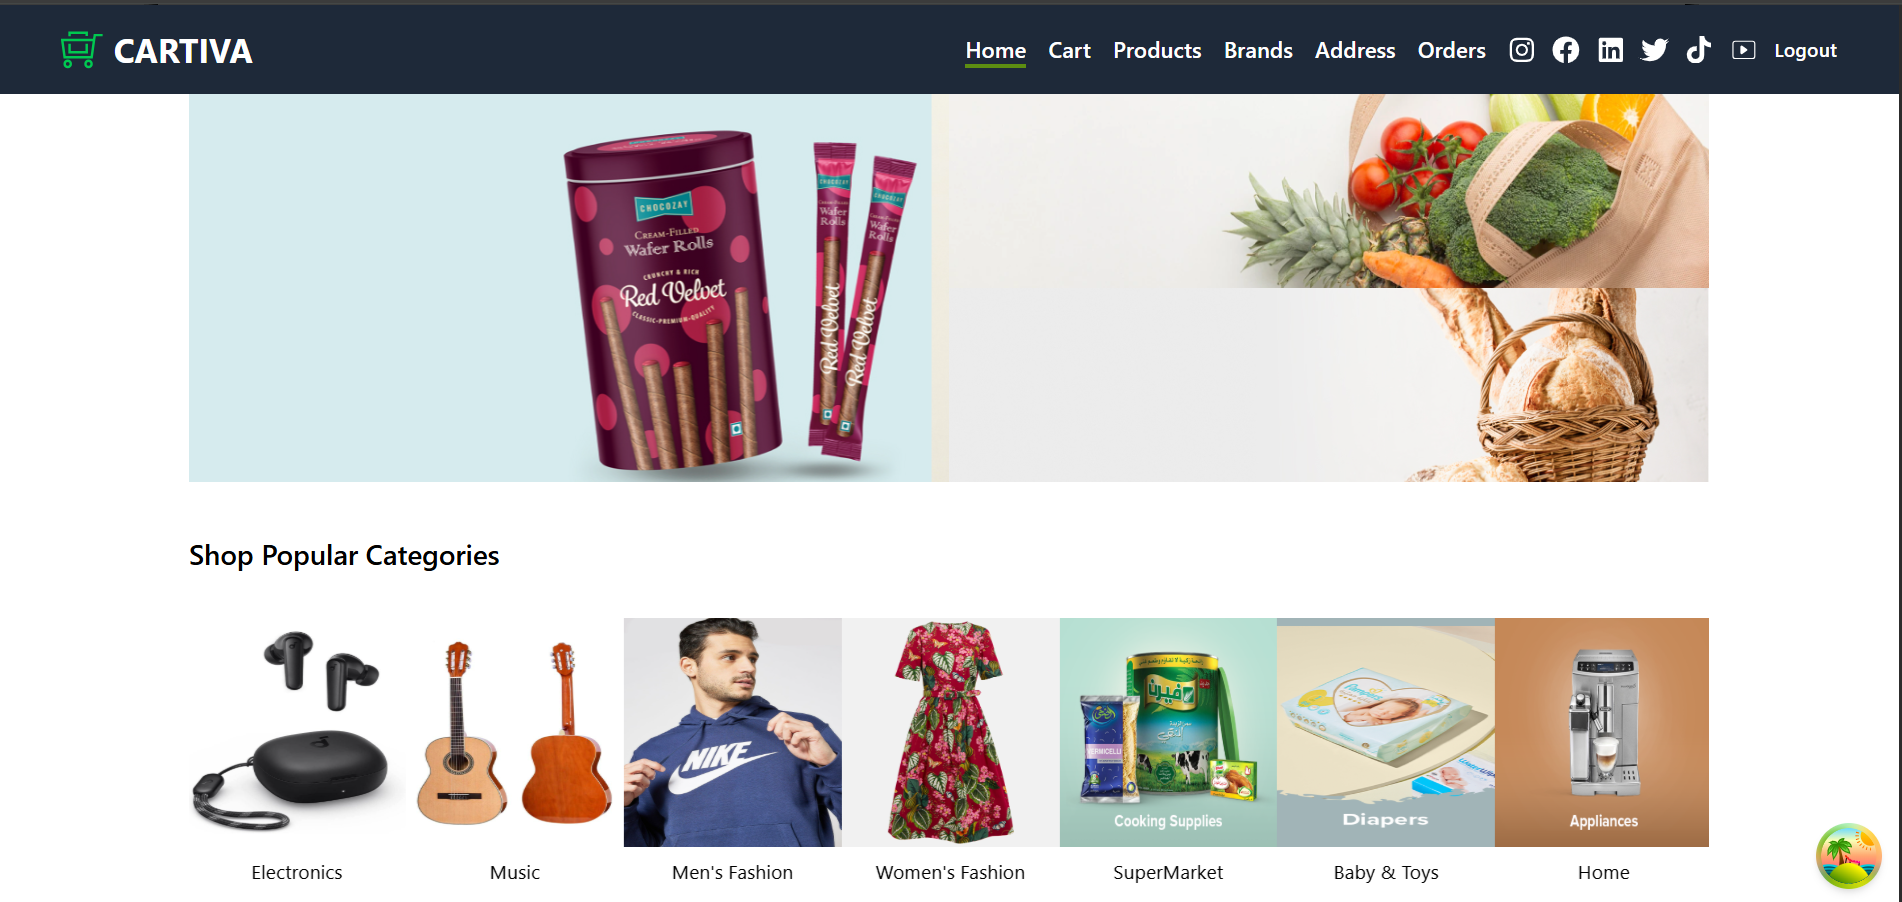
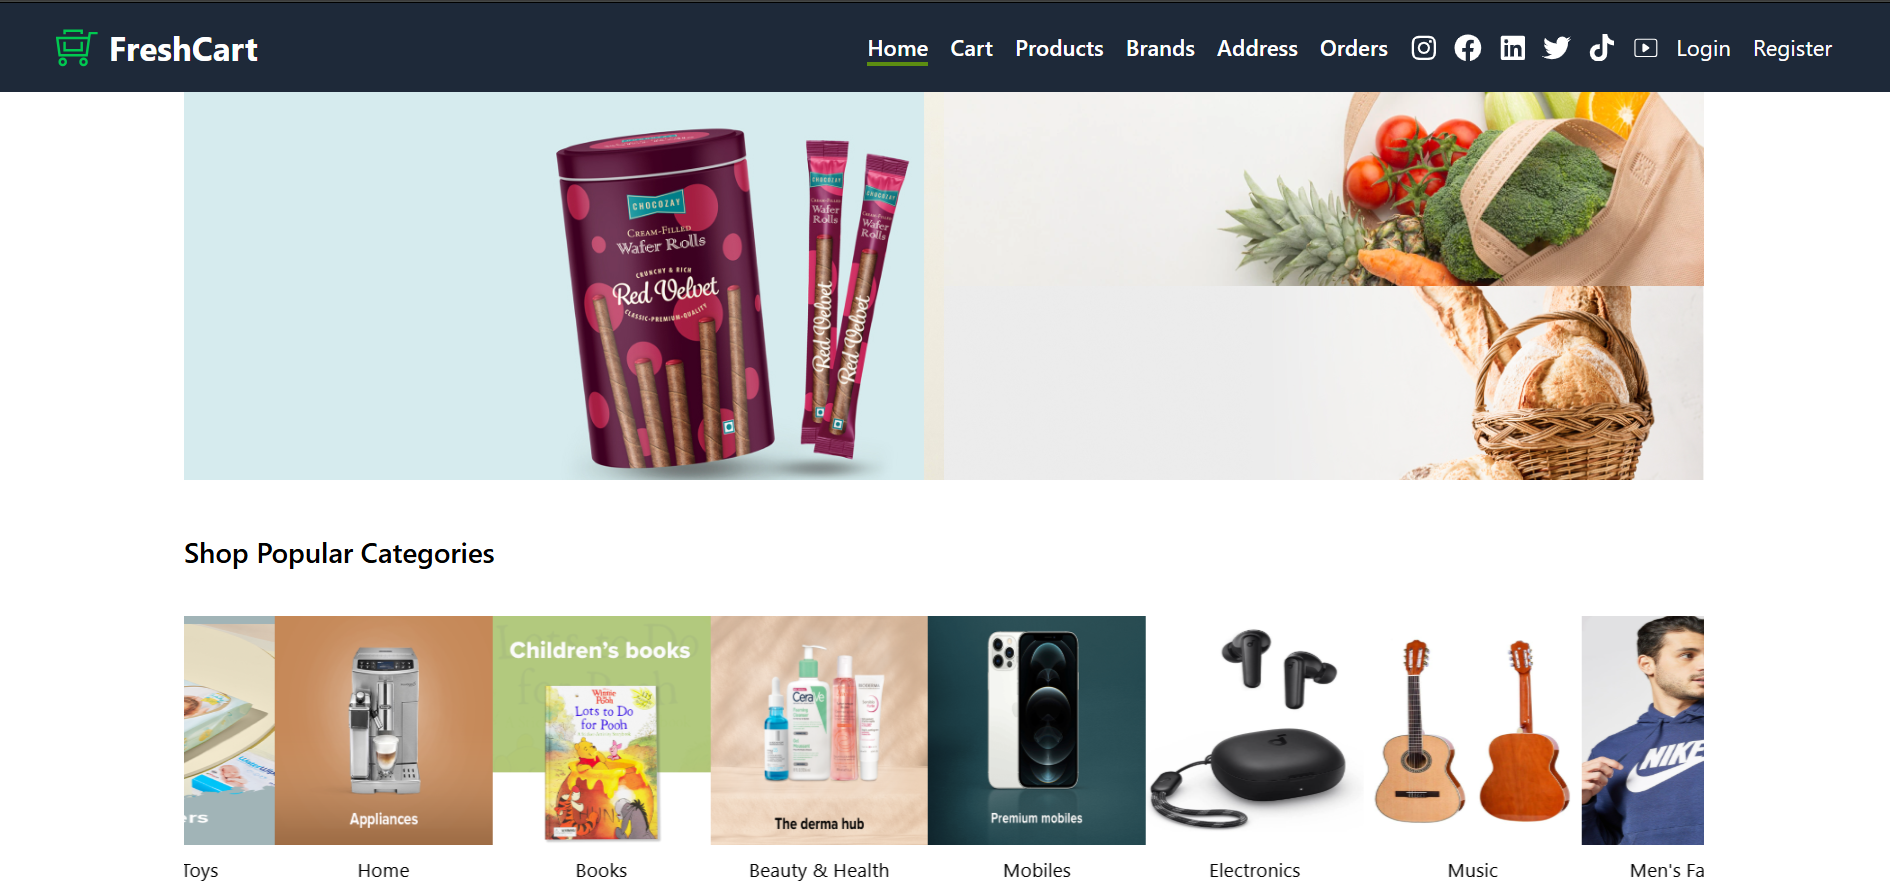
feat: update portfolio projects

diff --git a/src/entities/project/data/projects.data.ts b/src/entities/project/data/projects.data.ts
@@ -21,17 +21,48 @@ export const projects: Project[] = [
     tags: ["HTML", "CSS", "JS"],
     category: "E-Commerce",
   },
-   {
+    {
+    id: "shoes-app",
+    title: "Shoes Showcase",
+    description: "A sleek e-commerce app for stylish shoes.",
+    image: "/assets/shoesApp.png",
+    link: "https://shoes-showcase-eight.vercel.app/",
+    repo: "https://github.com/KyrillosSamer/shoes-showcase",
+    tags: ["React", "CSS"],
+    category: "E-Commerce",
+  },
+ {
+  id: "egypt-digital-spatial-gateway",
+  title: "Egypt Digital Spatial Gatway",
+  description:
+    "GIS web app with interactive mapping, drawing, measurement, search, filtering, and Shapefile export.",
+  image: "/assets/openLayer.png",
+  link: "https://egypt-digital-spatial-gateway.vercel.app/",
+  repo: "https://github.com/KyrillosSamer/egypt-digital-spatial-gateway",
+  tags: ["GIS", "OpenLayers", "React", "TypeScript"],
+  category: "GIS",
+},
+  {
+    id: "geospatial-feature-analytics",
+    title: "Geospatial Feature Analytics",
+    description: "Interactive ArcGIS-powered GIS dashboard for exploring geospatial data across Egypt.",
+    image: "/assets/geo.png",
+    link: "https://geospatial-feature-analytics.vercel.app/",
+    repo: "https://github.com/KyrillosSamer/geospatial-feature-analytics",
+    tags: ["GIS", "ArcGis SDK", "Next.js"],
+    category: "GIS",
+  },
+ {
     id: "gis-tools",
-    title: "GIS Tools",
-    description: "Geospatial analysis tools & data visualization.",
+    title: "Spatial Intersect Toolkit",
+    description: "Draw, select, and intersect shapes on an interactive map with WMS/WFS layer support and file upload/export.",
     image: "/assets/gis.png",
     link: "https://gis-tools.vercel.app/",
     repo: "https://github.com/KyrillosSamer/GisTools",
     tags: ["GIS", "Leaflet", "React"],
     category: "GIS",
-  },
-  {
+},
+ {
     id: "food-recipes",
     title: "Food Recipes",
     description: "Find and explore food recipes.",
@@ -48,6 +79,16 @@ export const projects: Project[] = [
     image: "/assets/film.png",
     link: "https://kyrillossamer.github.io/moviesWorld/",
     repo: "https://github.com/KyrillosSamer/moviesWorld",
+    tags: ["React", "API"],
+    category: "Other",
+  },
+  {
+    id: "sheIn-Orders",
+    title: "sheIn-Orders",
+    description: "Order management and profit tracking.",
+    image: "/assets/shein.png",
+    link: "https://kyrillossamer.github.io/shein-Orders/",
+    repo: "https://github.com/KyrillosSamer/shein-Orders",
     tags: ["React", "API"],
     category: "Other",
   },
@@ -91,16 +132,7 @@ export const projects: Project[] = [
     tags: ["JS", "Auth"],
     category: "Other",
   },
-  {
-    id: "shoes-app",
-    title: "Shoes App",
-    description: "A sleek e-commerce app for stylish shoes.",
-    image: "/assets/shoesapp.png",
-    link: "https://kyrillossamer.github.io/ShoesApp/",
-    repo: "https://github.com/KyrillosSamer/ShoesApp",
-    tags: ["React", "CSS"],
-    category: "E-Commerce",
-  },
+  
   {
     id: "crud-app",
     title: "CRUD App",
@@ -112,16 +144,6 @@ export const projects: Project[] = [
     category: "Other",
   },
   {
-    id: "wms-layers",
-    title: "WMS Layers Viewer",
-    description: "An application displaying WMS layers on a map.",
-    image: "/assets/base.png",
-    link: "https://kyrillossamer.github.io/WmsLayers/",
-    repo: "https://github.com/KyrillosSamer/WmsLayers",
-    tags: ["GIS", "OpenLayers"],
-    category: "GIS",
-  },
-  {
     id: "trendy-games",
     title: "Trendy Games",
     description: "Gaming showcase using Tailwind.",
@@ -131,24 +153,5 @@ export const projects: Project[] = [
     tags: ["Tailwind", "React"],
     category: "Other",
   },
-  {
-    id: "football-players",
-    title: "Football Players",
-    description: "Real Madrid players with animations.",
-    image: "/assets/madrid.png",
-    link: "https://kyrillossamer.github.io/FootBallPlayers/",
-    repo: "https://github.com/KyrillosSamer/FootBallPlayers",
-    tags: ["CSS", "Animations"],
-    category: "Other",
-  },
-  {
-    id: "artistic-gallery",
-    title: "Artistic Gallery",
-    description: "Online art marketplace.",
-    image: "/assets/lo7a.png",
-    link: "https://kyrillossamer.github.io/ArtisticGallery/",
-    repo: "https://github.com/KyrillosSamer/ArtisticGallery",
-    tags: ["React", "CSS"],
-    category: "Other",
-  },
+ 
 ];

diff --git a/src/shared/config/constants.ts b/src/shared/config/constants.ts
@@ -9,19 +9,32 @@ export const PERSONAL_INFO = {
   github: "https://github.com/KyrillosSamer",
   portfolio: "#",
   summary:
-    "Front-End & Geo-Spatial Developer with 3+ years of experience building map-driven applications and large-scale spatial data solutions, currently working on ERP SaaS platforms.",
+  "Front-End Developer with 3+ years of experience building scalable enterprise applications and SaaS platforms using React and Next.js, with strong expertise in GIS and spatial systems.",
   cvUrl: "/assets/Kyrillos_Samer_CV.pdf",
 } as const;
 
 export const SKILLS = {
   frontend: ["React.js", "Next.js", "TypeScript", "JavaScript", "Redux", "TanStack Query", "Zustand", "Tailwind CSS", "Bootstrap"],
   gis: ["ArcGIS SDK", "Leaflet", "OpenLayers", "ArcGIS Online", "ArcGIS StoryMaps", "QGIS", "Big Data Spatial"],
-  architecture: ["Clean Architecture", "Design Patterns", "Clean Code", "SaaS", "System Design", "ERP Systems"],
-  databases: ["PostgreSQL", "PostGIS", "MS SQL Server", "SQLite"],
+  backend: ["Node.js", "Express.js", "REST APIs", "JWT", "RBAC", "PostgreSQL", "PostGIS", "MS SQL Server", "SQLite"],
+  architecture: ["Clean Architecture", "SOLID", "Design Patterns", "Clean Code", "System Design", "SaaS", "ERP Systems", "Docker", "CI/CD"],
   tools: ["Git", "REST APIs", "ClickUp", "Scrum / Agile", "Python", "C++", "C#", "OOP"],
 } as const;
 
 export const EXPERIENCE = [
+  {
+    role: "Full-Stack GIS SaaS Developer",
+    company: "Real Estate SaaS – Personal Project",
+    period: "2026 – Present",
+    type: "personal",
+    bullets: [
+      "Built a multi-tenant real estate SaaS platform using Next.js, Node.js, Express.js, PostgreSQL, and PostGIS.",
+      "Developed GIS-driven property search and spatial matching using PostGIS.",
+      "Implemented REST APIs with JWT authentication and role-based access control (RBAC).",
+      "Applied Clean Architecture, SOLID principles, repository-based data access, and use-case driven business logic.",
+      "Containerized the backend infrastructure using Docker and Docker Compose.",
+    ],
+  },
   {
     role: "Front-End & GIS Developer",
     company: "BI-Tech",

diff --git a/src/widgets/about-preview/AboutPreview.tsx b/src/widgets/about-preview/AboutPreview.tsx
@@ -5,8 +5,9 @@ import { ROUTES } from "@/shared/config/routes";
 const skillCategories = [
   { label: "Front-End", skills: SKILLS.frontend, color: "purple" },
   { label: "GIS & Spatial", skills: SKILLS.gis, color: "blue" },
-  { label: "Architecture", skills: SKILLS.architecture, color: "cyan" },
-  { label: "Databases", skills: SKILLS.databases, color: "green" },
+  { label: "Backend & Data", skills: SKILLS.backend, color: "green" },
+  { label: "Architecture & DevOps", skills: SKILLS.architecture, color: "cyan" },
+  { label: "Tools", skills: SKILLS.tools, color: "amber" },
 ];
 
 const colorMap: Record<string, string> = {
@@ -14,6 +15,7 @@ const colorMap: Record<string, string> = {
   blue: "border-blue-800 text-blue-300 bg-blue-950/40",
   cyan: "border-cyan-800 text-cyan-300 bg-cyan-950/50",
   green: "border-green-800 text-green-300 bg-green-950/50",
+  amber: "border-amber-800 text-amber-300 bg-amber-950/50",
 };
 
 export const AboutPreview = () => {
@@ -76,12 +78,12 @@ export const AboutPreview = () => {
             </div>
 
             {/* Education */}
-            <div className="bg-gray-900/60 border border-gray-800 rounded-xl p-6">
-              <h3 className="text-sm font-semibold text-gray-400 uppercase tracking-widest mb-3">Education</h3>
+            <div className="bg-gray-900/60 border border-gray-800 rounded-xl p-8">
+              <h3 className="text-sm font-semibold text-gray-400 uppercase tracking-widest mb-4">Education</h3>
               <p className="text-white font-medium">{EDUCATION.degree}</p>
-              <p className="text-purple-400 text-sm">{EDUCATION.institution}</p>
+              <p className="text-purple-400 text-sm mt-2">{EDUCATION.institution}</p>
               <p className="text-gray-500 text-xs mt-1">{EDUCATION.period} · Grade: {EDUCATION.grade}</p>
-              <p className="text-gray-400 text-xs mt-1">
+              <p className="text-gray-400 text-xs mt-4">
                 Graduation Project:{" "}
                 <span className="text-cyan-400">{EDUCATION.project}</span> · {EDUCATION.projectGrade}
               </p>
